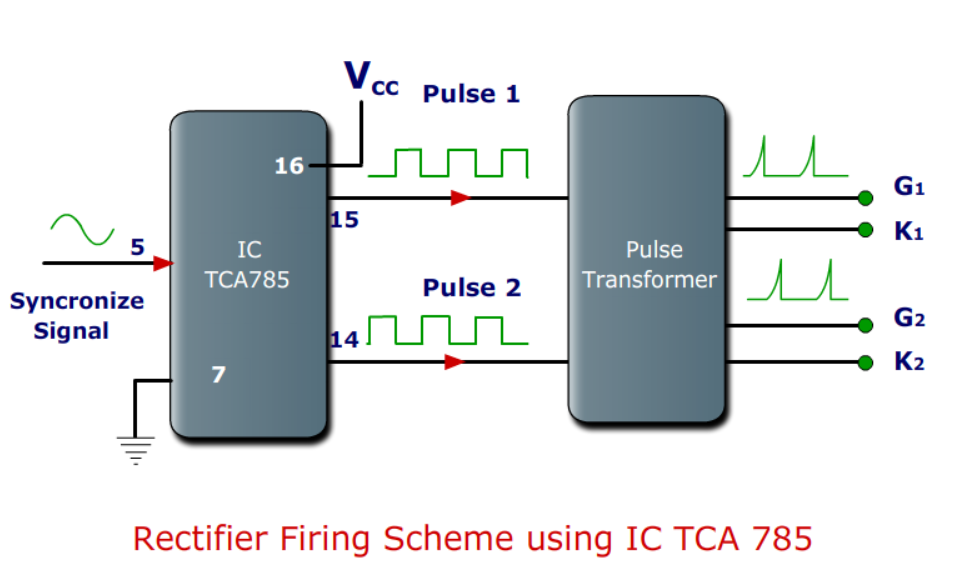
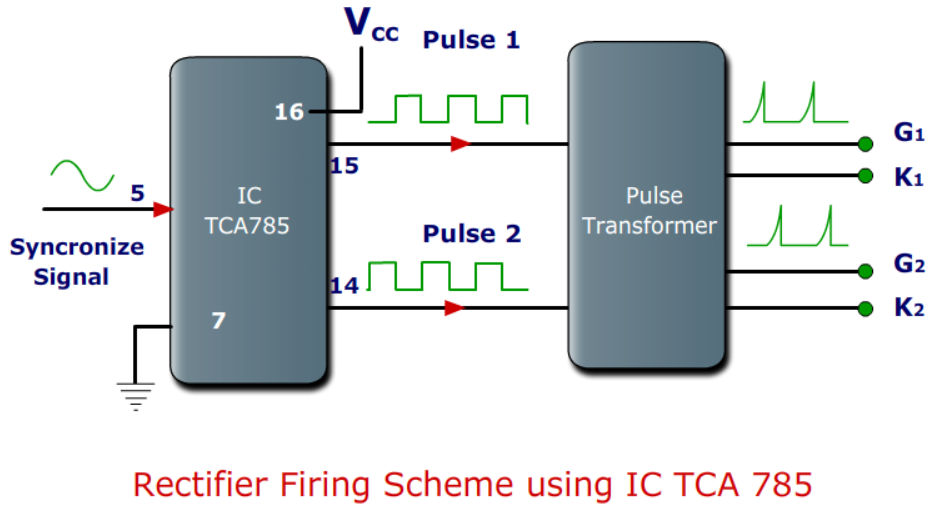
some changes in phase control css

Changed region(s): [[0.0, 0.0, 0.9936, 0.7988], [0.1242, 0.8876, 0.8694, 1.0]]

diff --git a/src/PowerElectronics/phasecontrolRectifier/phasecontrolRectifier.html b/src/PowerElectronics/phasecontrolRectifier/phasecontrolRectifier.html
@@ -123,7 +123,7 @@
             <p style="display: none; flex-direction: column"><img src="../assets/img/FS_RampComp.png" alt="gateFiringCircuit"><button class="viewPdf" onclick='loadPdf("../assets/RampComparatorFiringCircuit.pdf")'>View PDF</button></p>
             <p style="display: none; flex-direction: column">
               <span>This scheme used to fire thyristors in single phase converter. The pulse output of this scheme synchronizes with AC supply using step down transformer supply voltage step down to an appropriate level.</span>
-              <img src="../assets/img/FS_Cosine.png" alt="gateFiringCircuit">
+              <img src="../assets/img/FS_Cosine.png" alt="gateFiringCircuit" height="400">
               <button class="viewPdf" onclick='loadPdf("../assets/Cosine_Firing_Scheme.pdf")'>View PDF</button>
             </p>
             <p style="display: none; flex-direction: column"><img src="../assets/img/FSICTCA785.png" alt="gateFiringCircuit"><button class="viewPdf" onclick='loadPdf("../assets/IC-TCA785.pdf")'>View PDF</button></p>

diff --git a/src/PowerElectronics/phasecontrolRectifier/styles.css b/src/PowerElectronics/phasecontrolRectifier/styles.css
@@ -97,11 +97,15 @@ b{
     display: flex;
     flex-direction: column;
     justify-content: space-between;
+    border: 1px solid;
+    margin: 45px 50px;
+    margin-top: 50px;
+    padding : 20px;
 }
 
 .topics-display img{
     margin: 0 auto;
-    height: 475px;
+    height: 350px;
 }
 
 .topics-display button {
@@ -167,4 +171,13 @@ b{
     padding: 0 100px;
     display: flex;
     justify-content: space-evenly;
+}
+.topics-container button {
+    color: white;
+    background: #00988e;
+    border: 1px solid black;
+    border-radius: 4px;
+    padding: 10px;
+    cursor: help;
+    transition: 0.2s ease;
 }
